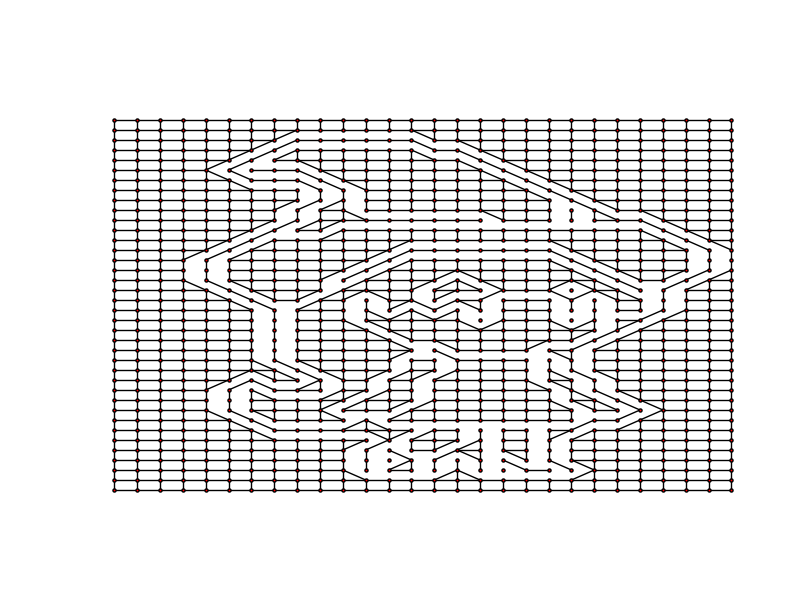
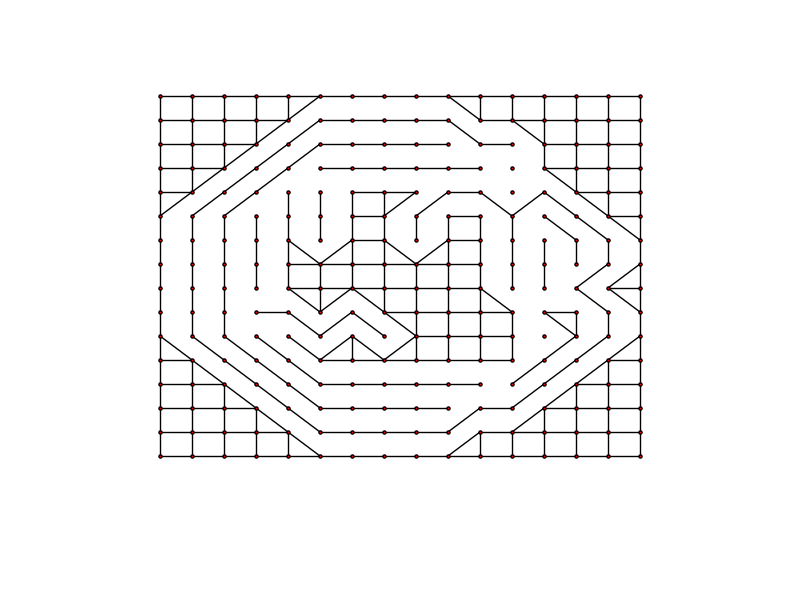
voronoi stuff

Changed region(s): [[0.125, 0.15, 0.9375, 0.84]]

diff --git a/depixelize/depixelize.py b/depixelize/depixelize.py
@@ -6,11 +6,12 @@ import matplotlib.pyplot as plt
 Container class to hold pixel data.
 '''
 class Pixel:
-  def __init__(self, y, u, v, coord):
+  def __init__(self, y, u, v, coord, voronoiPts=[]):
     self.y = y
     self.u = u
     self.v = v
     self.coord = coord
+    self.voronoiPts = voronoiPts
 
 '''
 Main class for depixelizer functions.
@@ -91,10 +92,13 @@ class Depixelizer:
       for x in range(self.width):
         for j in range(y-1,y+2):
           for i in range(x-1,x+2):
-            if (i != x or j != y) and (i >= 0 and i < self.width) and (j >= 0 and j < self.height):
+            if (i != x or j != y) and self.inRange((i, j)):
               graph.add_edge((x,y),(i,j))
 
     return graph
+    
+  def inRange(self, coord):
+    return (coord[0] >= 0 and coord[0] < self.width) and (coord[1] >= 0 and coord[1] < self.height)
     
   '''
   Implements the "Reshaping the Pixel Cells" portion of the algorithm.
@@ -102,6 +106,7 @@ class Depixelizer:
   def reshapeGraph(self, graph):
     self.removeDissimilarEdges(graph)
     self.resolveDiagonalEdges(graph)
+    self.generateGeneralizedVoronoi(graph)
   
   '''
   Removes edges where the difference between pixels is large.
@@ -167,6 +172,9 @@ class Depixelizer:
   def nodesConnected(self, graph, u, v):
     return u in graph.neighbors(v)
     
+  '''
+  Helper function to return the weights of the diagonal edges in a 2x2 window.
+  '''
   def computeWeights(self, graph, coord):
     c1 = coord
     c2 = (coord[0]+1, coord[1])
@@ -245,6 +253,90 @@ class Depixelizer:
     if len(graph.neighbors(c1)) == 1 or len(graph.neighbors(c2)) == 1:
       return 5
     return 0
+    
+  '''
+  Generates a Voronoi diagram for each node and its half-edge.
+  '''
+  def generateGeneralizedVoronoi(self, graph):
+    self.computeVoronoi(graph)
+    
+  '''
+  For each pixel, examines the adjacent and corner nodes (eight total) and computes the Voronoi cell. The northwest is (0,0)
+  '''
+  def computeVoronoi(self, graph):
+    voronoi = nx.Graph()
+    
+    for y in range(self.height-1):
+      for x in range(self.width-1):     
+        pixel = self.pixelData[(x,y)]
+        self.findVoronoiPts(graph, pixel)
+        
+        
+  def findVoronoiPts(self, graph, pixel):
+    pixelNeighbors = graph.neighbors(pixel.coord)
+    
+    x, y = pixel.coord
+    center = (x + 0.5, y + 0.5)
+    
+    north = (x, y-1)
+    south = (x, y+1)
+    west = (x-1, y)
+    east = (x+1, y)
+    
+    if self.inRange(north):
+      if north not in pixelNeighbors:
+        pixel.voronoiPts.append((center[0], center[1] - 0.25))
+    else:
+      pixel.voronoiPts.append((center[0], center[1] - 0.5))
+      
+    if self.inRange(south):
+      if south not in pixelNeighbors:
+        pixel.voronoiPts.append((center[0], center[1] + 0.25))
+    else:
+      pixel.voronoiPts.append((center[0], center[1] + 0.5))
+      
+    if self.inRange(west):
+      if west not in pixelNeighbors:
+        pixel.voronoiPts.append((center[0] - 0.25, center[1]))
+    else:
+      pixel.voronoiPts.append((center[0] - 0.5, center[1]))
+      
+    if self.inRange(east):
+      if east not in pixelNeighbors:
+        pixel.voronoiPts.append((center[0] + 0.25, center[1]))
+    else:
+      pixel.voronoiPts.append((center[0] + 0.5, center[1]))
+      
+    nw = (x-1, y-1)
+    sw = (x-1, y+1)
+    ne = (x+1, y-1)
+    se = (x+1, y+1)
+    
+    self.findDiagonalVoronoiPts(graph, pixel, pixelNeighbors, center, nw, north, west)
+    self.findDiagonalVoronoiPts(graph, pixel, pixelNeighbors, center, sw, south, west)
+    self.findDiagonalVoronoiPts(graph, pixel, pixelNeighbors, center, ne, north, east)
+    self.findDiagonalVoronoiPts(graph, pixel, pixelNeighbors, center, se, south, east)
+          
+  def findDiagonalVoronoiPts(self, graph, pixel, pixelNeighbors, center, diagonal, vert, horiz):
+    horizSign = -1 if horiz[0] < pixel.coord[0] else 1
+    vertSign = -1 if vert[1] < pixel.coord[1] else 1
+    
+    horizNeighbor = self.inRange(horiz) and horiz in pixelNeighbors
+    vertNeighbor = self.inRange(vert) and vert in pixelNeighbors
+    
+    if self.inRange(diagonal):
+      if diagonal in pixelNeighbors:
+        pixel.voronoiPts.append((center[0] + (horizSign * 0.75), center[1] + (vertSign * 0.25)))
+        pixel.voronoiPts.append((center[0] + (horizSign * 0.25), center[1] + (vertSign * 0.75)))
+        if (horizNeighbor and not vertNeighbor) or (vertNeighbor and not horizNeighbor):
+          pixel.voronoiPts.append((center[0] + (horizSign * 0.5), center[1] + (vertSign * 0.5)))
+      else:
+        if horiz in graph.neighbors(vert):
+          pixel.voronoiPts.append((center[0] + (horizSign * 0.25), center[1] + (vertSign * 0.25)))
+        else:
+          pixel.voronoiPts.append((center[0] + (horizSign * 0.5), center[1] + (vertSign * 0.5)))
+    else:
+      pixel.voronoiPts.append((center[0] + (horizSign * 0.5), center[1] + (vertSign * 0.5)))
 
 '''
 Main method.
